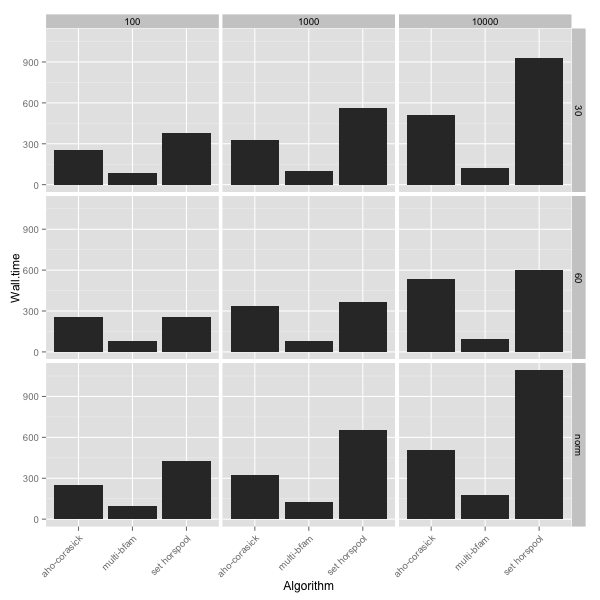
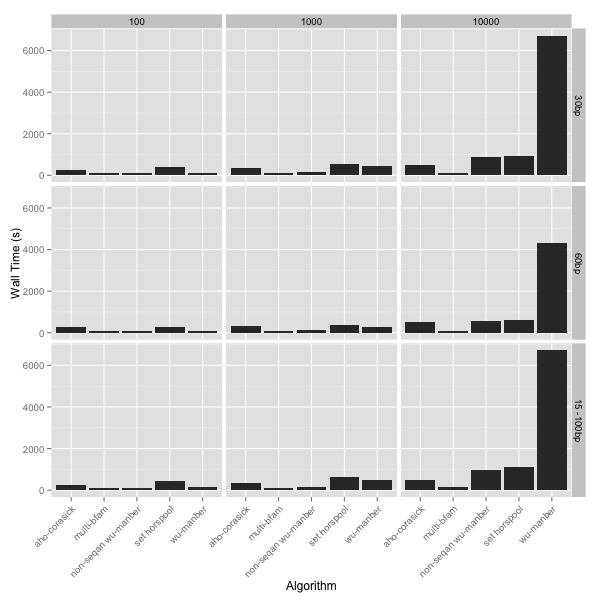
Site updated at 2013-11-01 13:50:14 UTC

diff --git a/blog/2013/10/28/testing-out-seqans-multipattern-search-implementations/index.html b/blog/2013/10/28/testing-out-seqans-multipattern-search-implementations/index.html
@@ -177,18 +177,39 @@ patterns!</strong> I&rsquo;ve submitted a <a href="http://trac.seqan.de/ticket/1
 
 <p>The above graph shows the total wall clock time in seconds foreach
 algorithm to process the input file with the different numbers of search
-patterns (columns) or for the different types of patters (rows).  There
-is no stats for the Wu-Manber algorithm because it was <em>so</em> much slower
-than the other three.  For the 10000 pattern test it was taking more
-than 1 hour to run through whereas the next worst completed the task in
-15 mins.  So don&rsquo;t use the Wu-Manber implementation in Seqan!  The
+patterns (columns) or for the different types of patters (rows).  The
+seqan implementation of the Wu-Manber algorithm does not scale well
+for many patterns as it was There <em>so</em> much slower than the other three.</p>
+
+<p>I was lead to believe that Wu-Manber was the pinicle of multipattern
+searching so I was a little perplexed by this result.  I know of another
+stand alone implementation of Wu-Manber provided by <a href="http://www.oneunified.net/blog/2008/03/23/">Ray
+Burkholder</a>.  As a
+comparison I tested out this implementation as well and perhaps
+unsurprisingly this implementation performed much better (it&rsquo;s referred
+to in the figures as &ldquo;non-seqan wu-manber&rdquo;).
+So don&rsquo;t use the Wu-Manber implementation in Seqan!  The
 winner of the speed benchmark was the multiBfam algorithim which
 performed nearly identically for any number of input patterns or for the
 different length patterns.  In comparison the Aho-Corasick and
 SetHorspool algorithms became slower with more patterns.</p>
 
-<p>So I&rsquo;m going to be using the multiBfam algorithm from now on, at least
-if I&rsquo;m using Seqan anyway.</p>
+<p>Speed tells you only half of the story and usually comes at the price of
+memory consumption.  Both of the Wu-Manber implementations excelled at
+memory consumption, or lack there of.  The worst were the Aho-Corasick
+and SetHorspool algorithms, which used 20Gb+ of memory under the worst
+case.  The multiBfam algorithm was somewhere in the middle.</p>
+
+<p><img src="/images/seqan_multipattern_search_memory_benchmark.png", alt="Seqan speed test summary"></p>
+
+<p>Considering only the seqan implementations I would probably go for the
+multiBfam algorithm as my first choice.  On balance the stand alone
+Wu-Manber algorith is probably your best option unless you can
+definatively rule out there ever being more than 1000 patterns.
+Base on what I&rsquo;ve seen the Aho-Corasick and SetHorspool implementations
+in seqan are the worst options as they use far too much memory, however
+that&rsquo;s not to say that other implementations of these algorithms would
+perform differently.</p>
 
 <h2>Scripts</h2>
 
